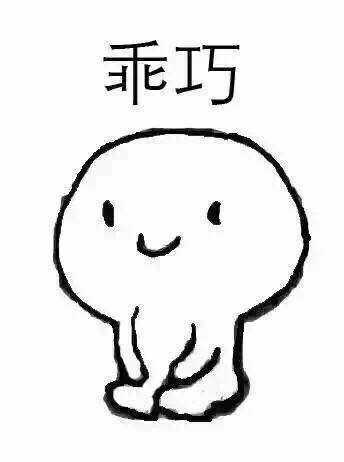
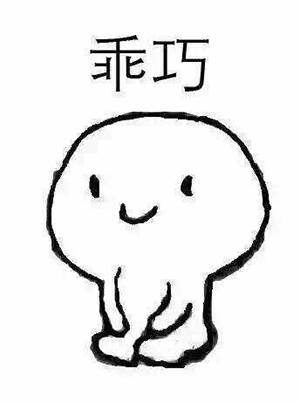
resume

diff --git a/index.html b/index.html
@@ -315,7 +315,7 @@
 	  		.addComponent({
 	  			type:"bar",
 	  			width:"620",
-	  			css:{top:'25%'},
+	  			css:{top:'22%'},
 	  			center:true,
 	  			data:[['HTML+CSS',0.9,'salmon'],['JS',0.85,'salmon'],['PS',0.88,'salmon'],['jQuery',0.9,'salmon'],['canvas',0.6,'steelblue'],['vue.js',0.5,'steelblue'],['php',0.4,'steelblue']]	  			
 	  		}) 		
@@ -337,16 +337,16 @@
   				animateOut:{
   					transform:"scale(0)"
   				},	
-  				html:"<span style='font-size:30px;line-height:60px;'>谢谢观看</span>by江榕"
+  				html:"<span style='font-size:30px;line-height:60px;'>谢谢观看</span><br>设计&&代码by江榕"
 	  			})	
 	  		.addComponent({
-  				width:'344',
-  				height:"462",
+  				width:'300',
+  				height:"404",
   				center:true,
   				bg:"images/emoji3.jpg",
   				css:{
   					opacity:0,
-  					bottom:"25%"
+  					bottom:"28%"
   				},
   				animateIn:{
   					opacity:1
@@ -382,7 +382,7 @@
 	  				$.fn.fullpage.moveTo(1)
 	  			}	  			
 	  		})		  				  		  
-	  .loader(["images/person.png","images/plant.png","images/name.png","images/arrow.png","images/con_bg.jpg","images/emoji1.jpg","images/emoji2.jpg","images/emoji3.jpg"]).canvasAnimate('hello')
+	  .loader(["images/person.png","images/plant.png","images/name.png","images/arrow.png","images/con_bg.jpg","images/emoji1.jpg","images/emoji2.jpg","images/emoji3.jpg"],7).canvasAnimate('hello')
 
 </script>
 </body>
